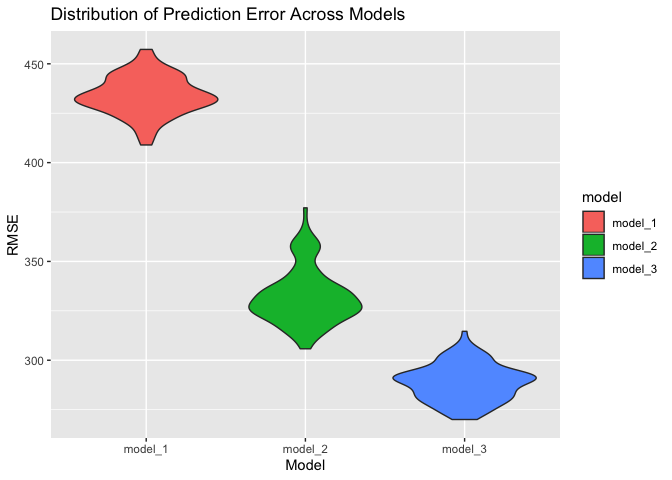
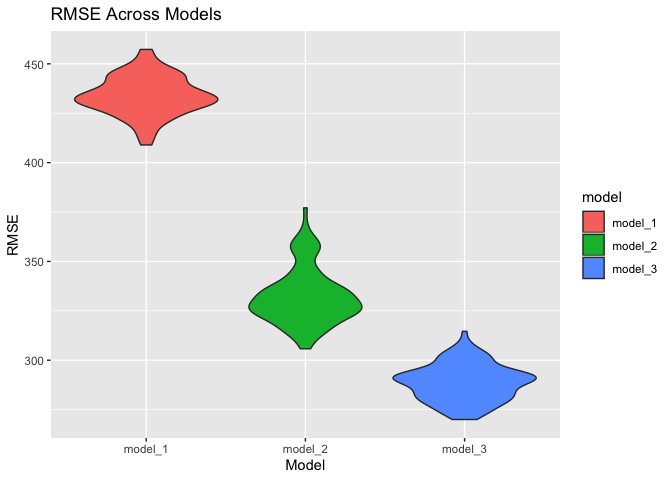
Final changes!

Changed region(s): [[0.0625, 0.0, 0.5938, 0.0625]]

diff --git a/p8105_hw6_Ec3342.md b/p8105_hw6_Ec3342.md
@@ -171,7 +171,7 @@ cross_validation %>%
   ggplot(aes(x = model, y = rmse, fill = model)) +
   geom_violin() + 
   labs(
-    title = "Distribution of Prediction Error Across Models",
+    title = "RMSE Across Models",
     x = "Model",
     y = "RMSE"
   )
